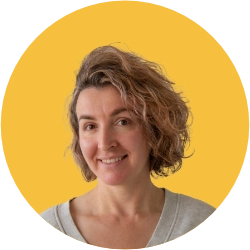
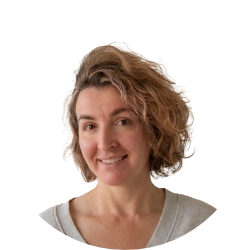
[kweyjibo.blog]:  Changes

diff --git a/src/assets/styles/layouts/about/base.css b/src/assets/styles/layouts/about/base.css
@@ -31,12 +31,15 @@
   }
 }
 
-.about-me_img {
-  display: block;
-  width: 250px;
+.about-me__cnt-img {
+  background-color: var(--site-decor-color);
+  border-radius: 50%;
+  overflow: hidden; /* border-radius: 50%; */
+  aspect-ratio: 1;
+}
 
-  border-bottom-left-radius: 12px;
-  border-bottom-right-radius: 12px;
+.about-me__img {
+  display: block;
 }
 
 /* Skills & work */

diff --git a/src/assets/styles/components/logo/base.css b/src/assets/styles/components/logo/base.css
@@ -2,6 +2,11 @@
 
 .logo-cnt {
   position: relative;
+  width: 110px;
+  height: 110px;
+
+  background-color: var(--site-decor-color);
+  border-radius: 50%;
 }
 
 .logo {
